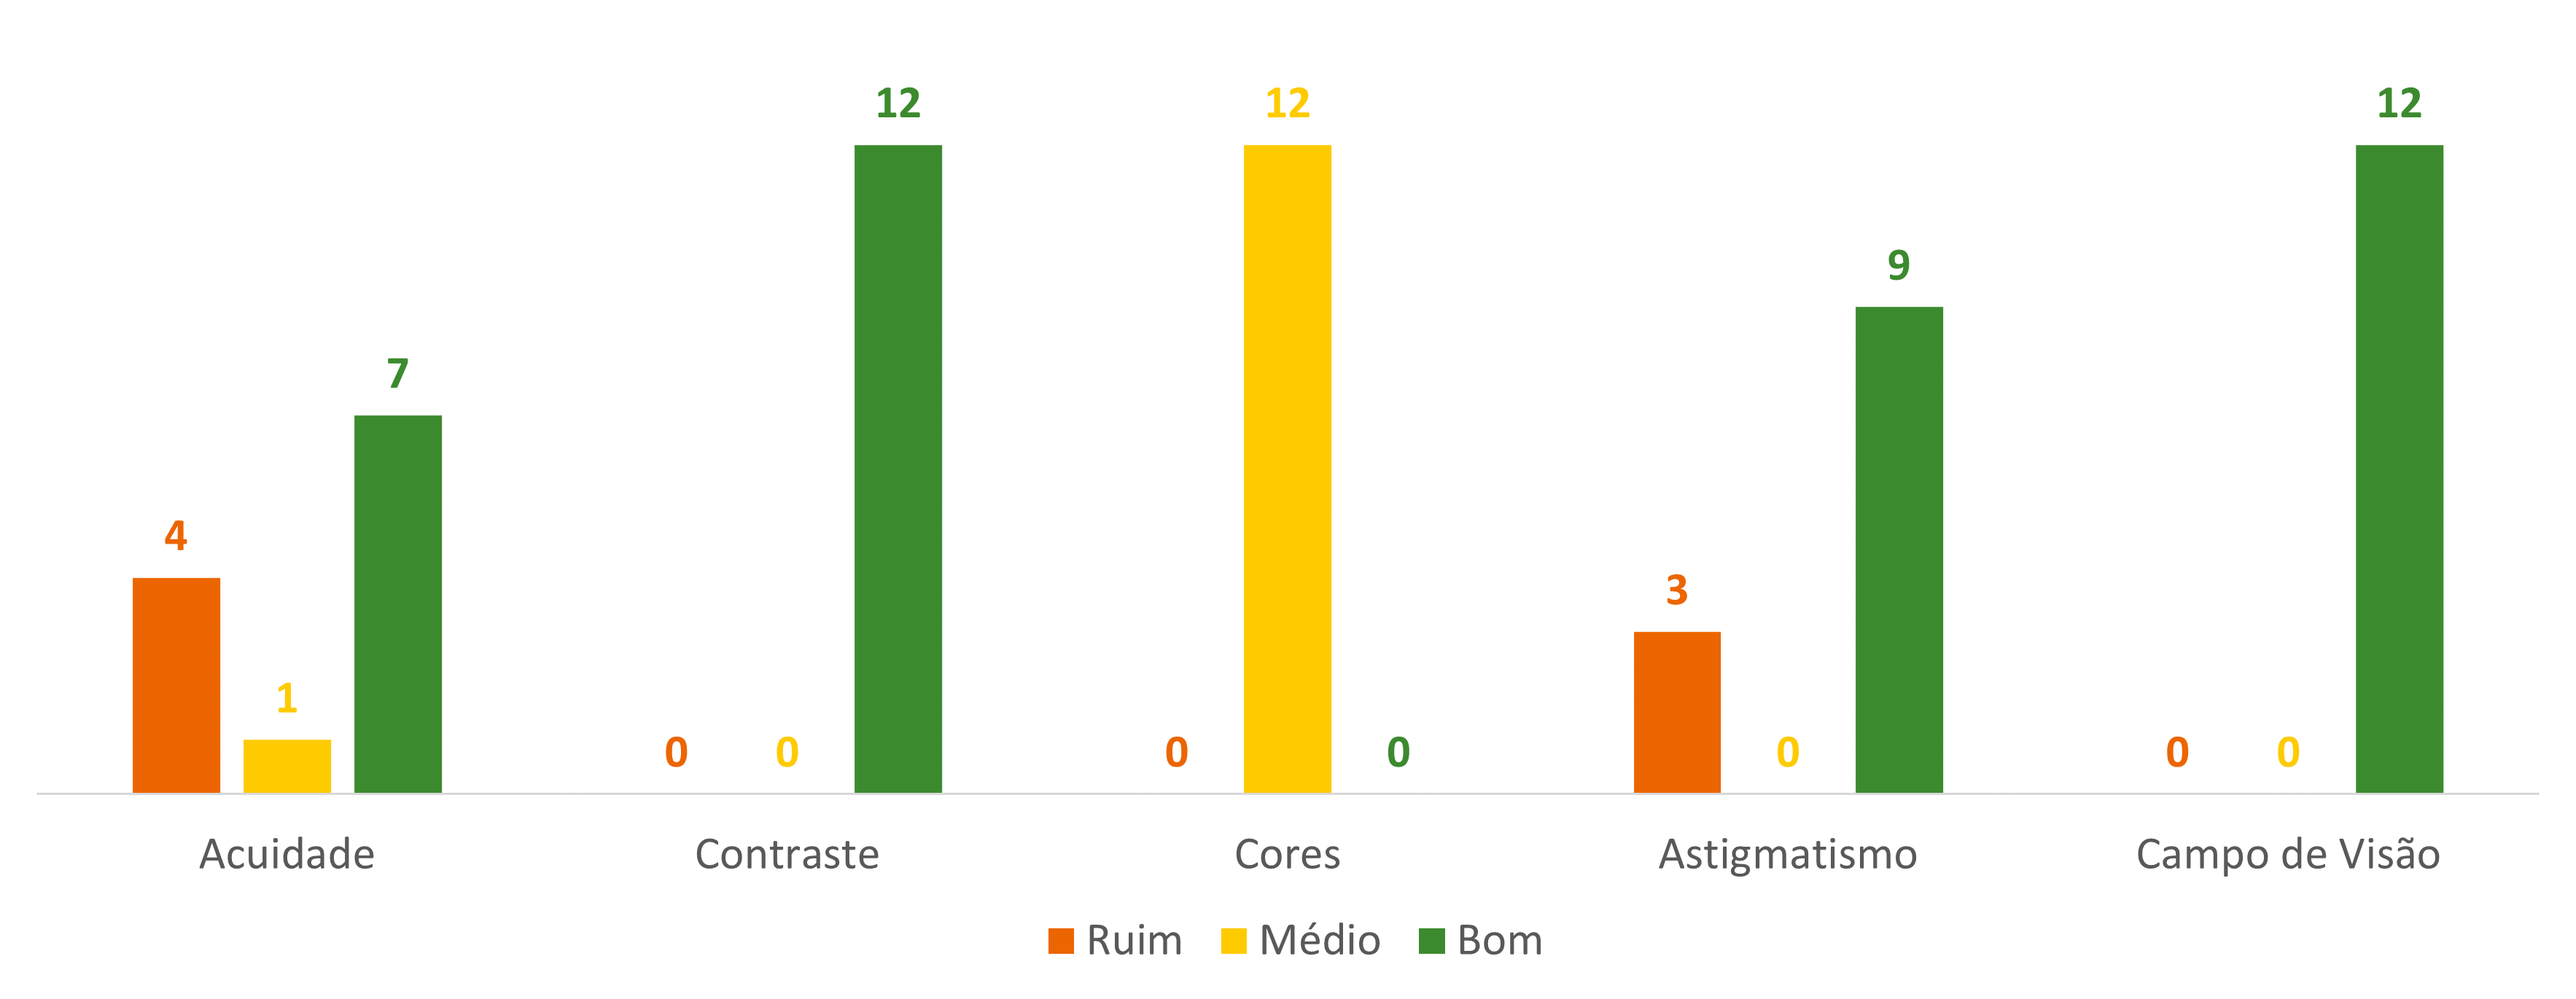
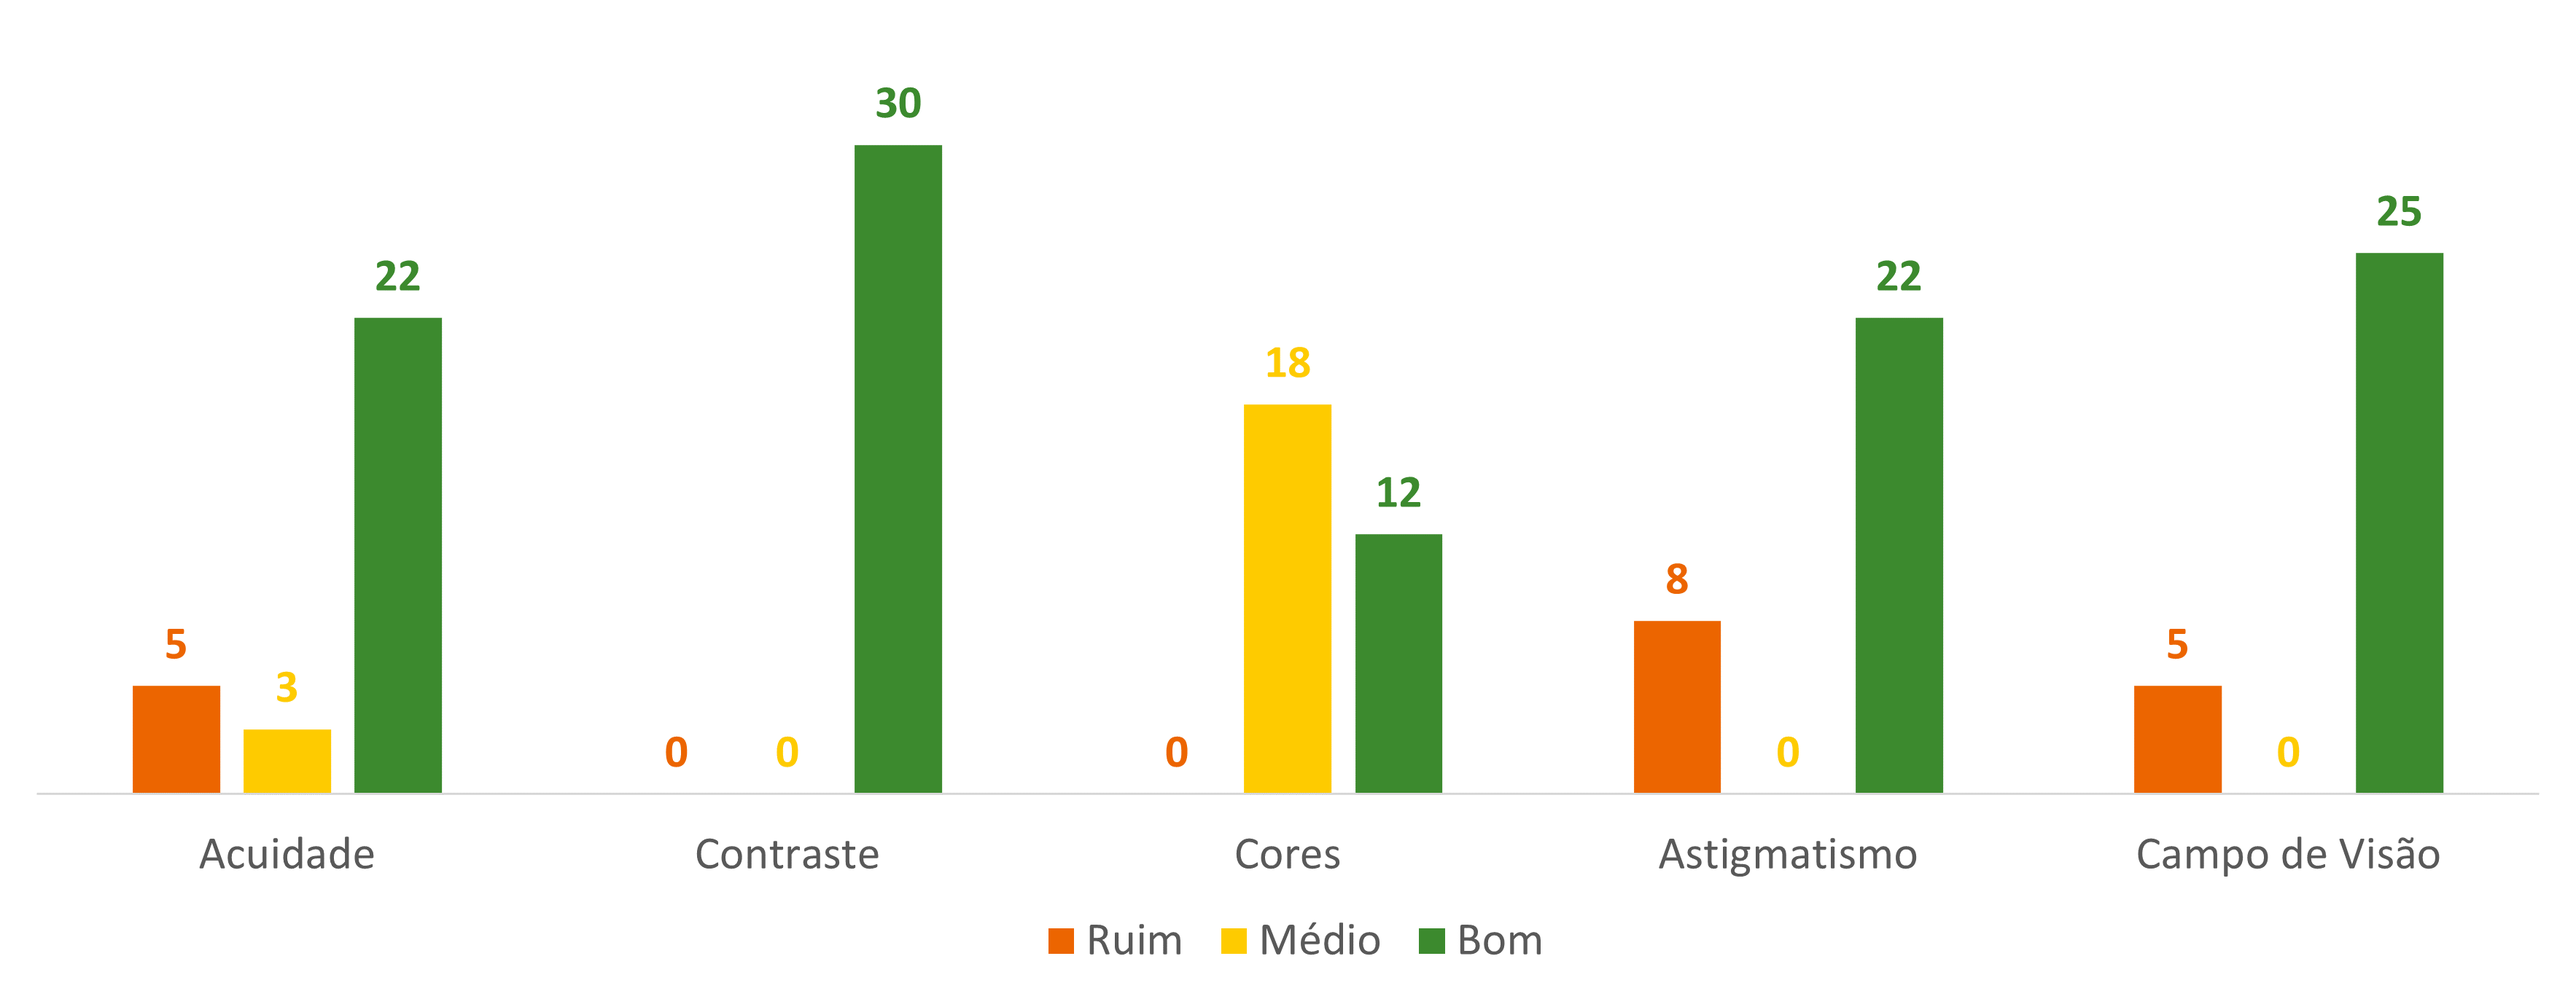
1

diff --git a/seminarios/Seminário 1/seminario1.html b/seminarios/Seminário 1/seminario1.html
@@ -102,20 +102,22 @@ a {
 			<tr><td><center><b>Giulia<br>Convidada - Ighor</b></</center></td><td><center><img class="resultestes" src="Testes de Visão/Ighor/acuity_gest1.jpeg" alt="" /></center></td><td><center><img class="resultestes" src="Testes de Visão/Ighor/contrast_gest1.jpeg" alt="" /></center></td><td><center><img class="resultestes" src="Testes de Visão/Ighor/colour_gest1.jpeg" alt="" /></center></td><td><center><img class="resultestes" src="Testes de Visão/Ighor/astigmatism_gest1.jpeg" alt="" /></center></td><td><center><img class="resultestes" src="Testes de Visão/Ighor/field_gest1.jpeg" alt="" /></center></td></tr>
 			<tr><td><center><b>Natalia<br>Convidada - Ighor</b></</center></td><td><center><img class="resultestes" src="Testes de Visão/Ighor/acuity_Ighor_guest2.png" alt="" /></center></td><td><center><img class="resultestes" src="Testes de Visão/Ighor/contrast_Ighor_guest2.png" alt="" /></center></td><td><center><img class="resultestes" src="Testes de Visão/Ighor/colour_Ighor_guest2.png" alt="" /></center></td><td><center><img class="resultestes" src="Testes de Visão/Ighor/astigmatism_Ighor_guest2.png" alt="" /></center></td><td><center><img class="resultestes" src="Testes de Visão/Ighor/field_Ighor_guest2.png" alt="" /></center></td></tr>
 			<tr><td><center><b>Mariana</b></</center></td><td><center><img class="resultestes" src="Testes de Visão/Mariana/acuity_Mariana.png" alt="" /></center></td><td><center><img class="resultestes" src="Testes de Visão/Mariana/contrast_Mariana.png" alt="" /></center></td><td><center><img class="resultestes" src="Testes de Visão/Mariana/colour_Mariana.png" alt="" /></center></td><td><center><img class="resultestes" src="Testes de Visão/Mariana/astigmatism_Mariana.png" alt="" /></center></td><td><center><img class="resultestes" src="Testes de Visão/Mariana/field_Mariana.png" alt="" /></center></td></tr>
-			<tr><td><center><b>Mariana</b></</center></td><td><center><img class="resultestes" src="Testes de Visão/Mariana/acuity_Mariana.png" alt="" /></center></td><td><center><img class="resultestes" src="Testes de Visão/Mariana/contrast_Mariana.png" alt="" /></center></td><td><center><img class="resultestes" src="Testes de Visão/Mariana/colour_Mariana.png" alt="" /></center></td><td><center><img class="resultestes" src="Testes de Visão/Mariana/astigmatism_Mariana.png" alt="" /></center></td><td><center><img class="resultestes" src="Testes de Visão/Mariana/field_Mariana.png" alt="" /></center></td></tr>
 			<tr><td><center><b>Maria<br>Convidada - Mariana</b></</center></td><td><center><img class="resultestes" src="Testes de Visão/Mariana/acuity_Mariana_guest1.png" alt="" /></center></td><td><center><img class="resultestes" src="Testes de Visão/Mariana/contrast_Mariana_guest1.PNG" alt="" /></center></td><td><center><img class="resultestes" src="Testes de Visão/Mariana/colour_Mariana_guest1.png" alt="" /></center></td><td><center><img class="resultestes" src="Testes de Visão/Mariana/astigmatism_Mariana_guest1.png" alt="" /></center></td><td><center><img class="resultestes" src="Testes de Visão/Mariana/field_Mariana_guest1.png" alt="" /></center></td></tr>
 			<tr><td><center><b>Marcelo<br>Convidado - Mariana</b></</center></td><td><center><img class="resultestes" src="Testes de Visão/Mariana/acuity_Mariana_guest2.png" alt="" /></center></td><td><center><img class="resultestes" src="Testes de Visão/Mariana/contrast_Mariana_guest2.PNG" alt="" /></center></td><td><center><img class="resultestes" src="Testes de Visão/Mariana/colour_Mariana_guest2.png" alt="" /></center></td><td><center><img class="resultestes" src="Testes de Visão/Mariana/astigmatism_Mariana_guest2.png" alt="" /></center></td><td><center><img class="resultestes" src="Testes de Visão/Mariana/field_Mariana_guest2.png" alt="" /></center></td></tr>-->
 
 		</table></center>
 		<br>
 		<p>Com isso, pode-se analisar o conjunto dos dados obtidos. O gráfico a seguir apresenta a distribuição de avaliações para cada teste (sem distinção
-		entre os dois olhos). Para o teste de acuidade, percebe-se que os resultados se concentraram nas avaliações "Ruim" e "Bom", sendo a maior parte positivas.
-		Já no teste de contraste, todos os participantes obtiveram a melhor avaliação, que poderia ser alcançada mesmo com alguns erros. Os resultados foram
-		todos idênticos também no teste de Percepção de Cores, com avaliação "Médio", o que confirma a inconclusividade deste teste; uma vez que este teste
-		é baseado em um trabalho científico renomado, conclui-se que o erro pode estar na ferramenta.
+		entre os dois olhos). Para o teste de acuidade, percebe-se que os resultados foram, em sua maioria, "Bom", classificação que poderia ser obtidas
+		mesmo com alguns erros.
+		Já no teste de contraste, todos os participantes obtiveram a melhor avaliação, que também tolerava respostas incorretas. No teste de percepção
+		de cores, a maioria dos resultados foi "Médio", o que confirma a inconclusividade deste teste; uma vez que este teste
+		é baseado em um trabalho científico renomado, pode-se concluir que o erro está no cálculo da ferramenta, que se mostra imprecisa em indicar
+		daltonismo.
 		No teste de Astigmatismo, não houveram avaliações intermediárias pois, como já mencionado, o teste consiste de uma única pergunta, para a qual uma
-		resposta negativa resulta em uma classificação "Ruim", ao passo que "Bom" depende de uma resposta afirmativa. Por fim, no teste de Campo de Visão,
-		outro com poucas perguntas, novamente foram obtidas somente classificações "Bom".</p>
+		resposta negativa resulta em uma classificação "Ruim", ao passo que "Bom" depende de uma resposta afirmativa, que foi maioria na amostra.
+		Por fim, no teste de Campo de Visão,
+		outro com poucas perguntas, a maior parte das classificações obtidas foi "Bom", e não houveram resultados na categoria intermediária.</p>
 
 		<center><img width="900" src="Testes de Visão/grafico.png" alt="" /></center>
 
